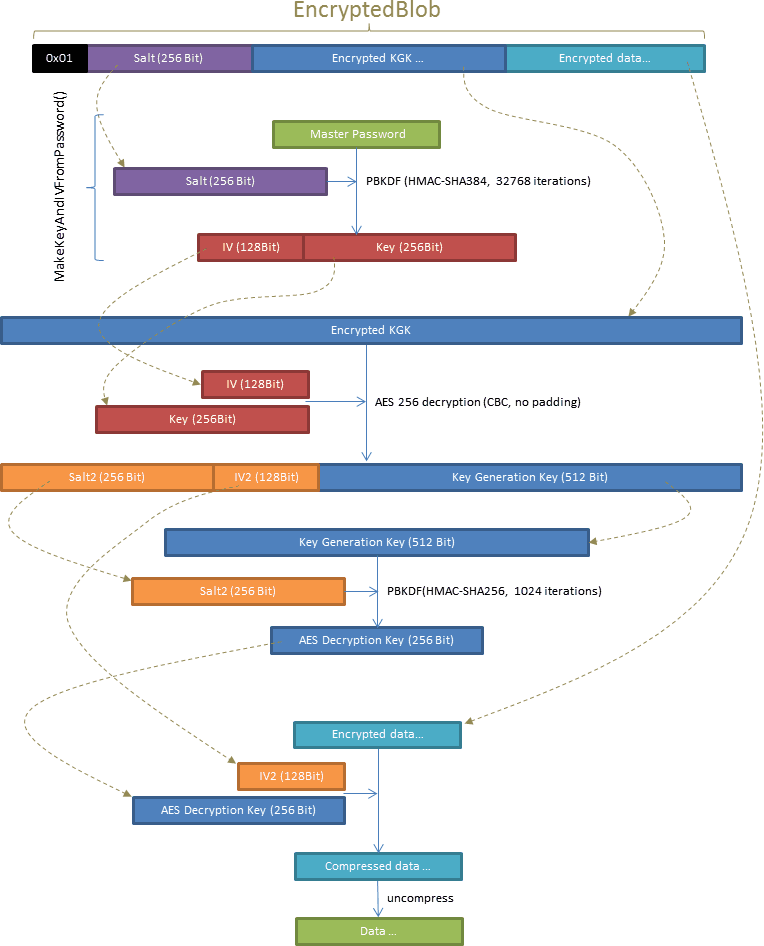
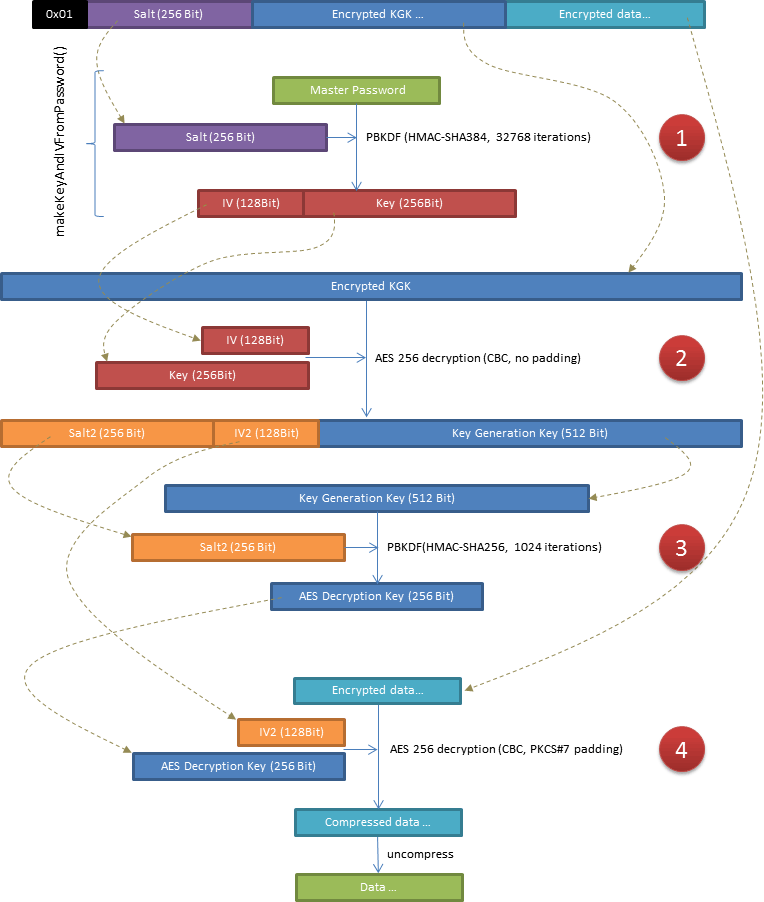
Updates.

diff --git a/index.html b/index.html
@@ -131,7 +131,7 @@
         <img src="img/algo02-generate-salt.png" width="214" height="70" title="salt generation" />
       </p>
 
-      <h4>Key computation</h4>
+      <h4 id="key-computation">Key computation</h4>
 
       <p>Any time Qt-SESAM saves the settings to a file or transfers them over the net to the synchronization server the settings are encrypted with <a href="https://en.wikipedia.org/wiki/Advanced_Encryption_Standard" target="_blank">AES</a> in <a href="https://en.wikipedia.org/wiki/Block_cipher_mode_of_operation#CBC" target="_blank">CBC</a> mode. The Advanced Encryption Standard is regarded as 100% secure.</p>
       <p>Like any symmetric cipher AES employs a key to encrypt or decrypt data. Qt-SESAM uses the strongest possible AES encryption with a 256 bit key. At the beginning of an encryption or decryption process AES has to be initialized with a block of 16&nbsp;bytes. This initialization vector (IV) is computed along with the key from your master password through a process called <a href="https://en.wikipedia.org/wiki/Key_derivation_function" target="_blank">key derivation</a>. A well-tested manifestation is the Password-Based Key Derivation Function&nbsp;2 (<a href="https://en.wikipedia.org/wiki/PBKDF2" target="_blank">PBKDF2</a>) which scrambles an input (your master password) with the salt just generated. It does this by repeatedly (32768 times) running the inputs through a hash-based message authentication code (<a href="https://en.wikipedia.org/wiki/Hash-based_message_authentication_code" target="_blank">HMAC</a>).</p>
@@ -159,9 +159,33 @@
 
       <h3 id="encryption">Encryption</h3>
 
-      <p>That's all Qt-SESAM needs to encrypt data. The whole encryption process looks very complicated but in fact is quite straightforward.</p>
-      <p>Because Qt-SESAM needs the KGK to generate your service passwords the KGK has to be stored together with the domain settings.</p>
-      <p>A second pair of salt and IV is generated.</p>
+      <p>That's all Qt-SESAM needs to encrypt data (KGK, domain settings).
+        The encryption process looks very complicated but in fact is quite straightforward.</p>
+      <p>
+        <span class="step">1</span>
+        Because Qt-SESAM needs the KGK to generate your service passwords the KGK has to be stored together with the domain settings.
+        And because the KGK is needed to encrypt/decrypt the domain settings it has to be encrypted separately.
+        A second pair of salt and IV is generated and prepended to the KGK.
+        The encryption process applies the key and IV returned by <code>Crypter::makeKeyAndIVFromPassword()</code> in the previous steps.
+        </p>
+      <p>
+        <span class="step">2</span>
+        The freshly generated salt from step&nbsp;1 is used to protect the AES encryption key (1024&nbsp; times spun through PBKDF2) against dictionary and rainbow-table attacks.
+      </p>
+      <p>
+        <span class="step">3</span>
+        The domain settings are formatted in <a href="https://en.wikipedia.org/wiki/JSON" target="_blank">JSON</a>. This is a rather verbose format for data representation and is easily compressed to a fraction of the original size.
+        But compression not only saves space, it also adds computational effort for an adversary who has seized the encrypted data and tries to decrypt it with brute-force methods.
+      </p>
+      <p>
+        <span class="step">4</span>
+        This key together with the IV from step&nbsp;1 is used to encrypt the domain settings after they have been compressed.
+      </p>
+      <p>
+        <span class="step">5</span>
+        Now the encrypted data can be assembled: The first byte is a version flag (currently only <code>0x01</code> is used). Thereon follows the salt that was used to <a href="#key-computation">make the key and IV from the master password</a>, then the encrypted KGK from step&nbsp;1 and the encrypted data from step&nbsp;4. 
+        This package can be stored anywhere without the fear of being compromised, even if the hacker had long-term access to supercomputers. The privacy of the data contained therein totally relies on the strength of the master password and how well you keep it away from unauthorized people.
+      </p>
 
       <p class="figure">
         <img src="img/algo04-encode.png" width="760" height="839" title="encoding" />
@@ -173,7 +197,7 @@
 
       <p>Decrypting data works the other way round.</p>
       <p class="figure">
-        <img src="img/algo05-decode.png" width="764" height="946" title="decoding" />
+        <img src="img/algo05-decode.png" width="764" height="902" title="decoding" />
         <span class="title"><a class="code" href="https://github.com/ola-ct/Qt-SESAM/blob/master/libSESAM/crypter.cpp">Crypter::decode()</a></span>
       </p>
 

diff --git a/css/default.css b/css/default.css
@@ -125,6 +125,22 @@ p {
       display: block;
     }
 
+.step {
+  display: inline-block;
+  width: 22px;
+  height: 22px;
+  color: white;
+  text-align: center;
+  -moz-border-radius: 11px;
+  -webkit-border-radius: 11px;
+  border-radius: 11px;
+  background: red;
+  background: linear-gradient(rgb(206, 59, 55), rgb(203, 61, 58), rgb(155, 45, 42));
+  font: bold 12px/22px Lato, sans-serif;
+  float: left;
+  margin: 6px 6px 6px 0;
+}
+
 .gui {
   font-style: italic;
 }
